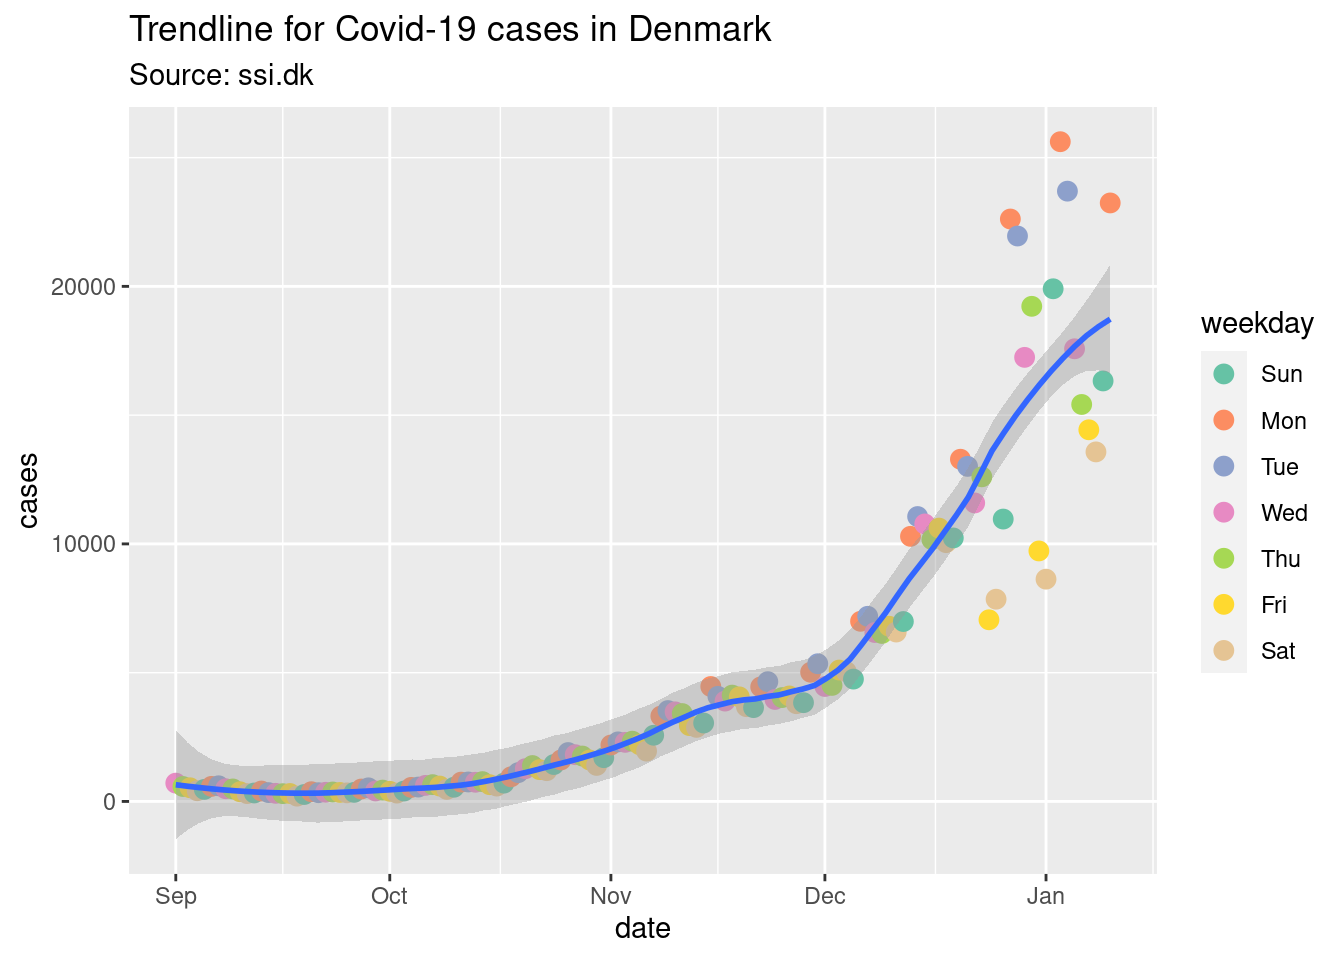
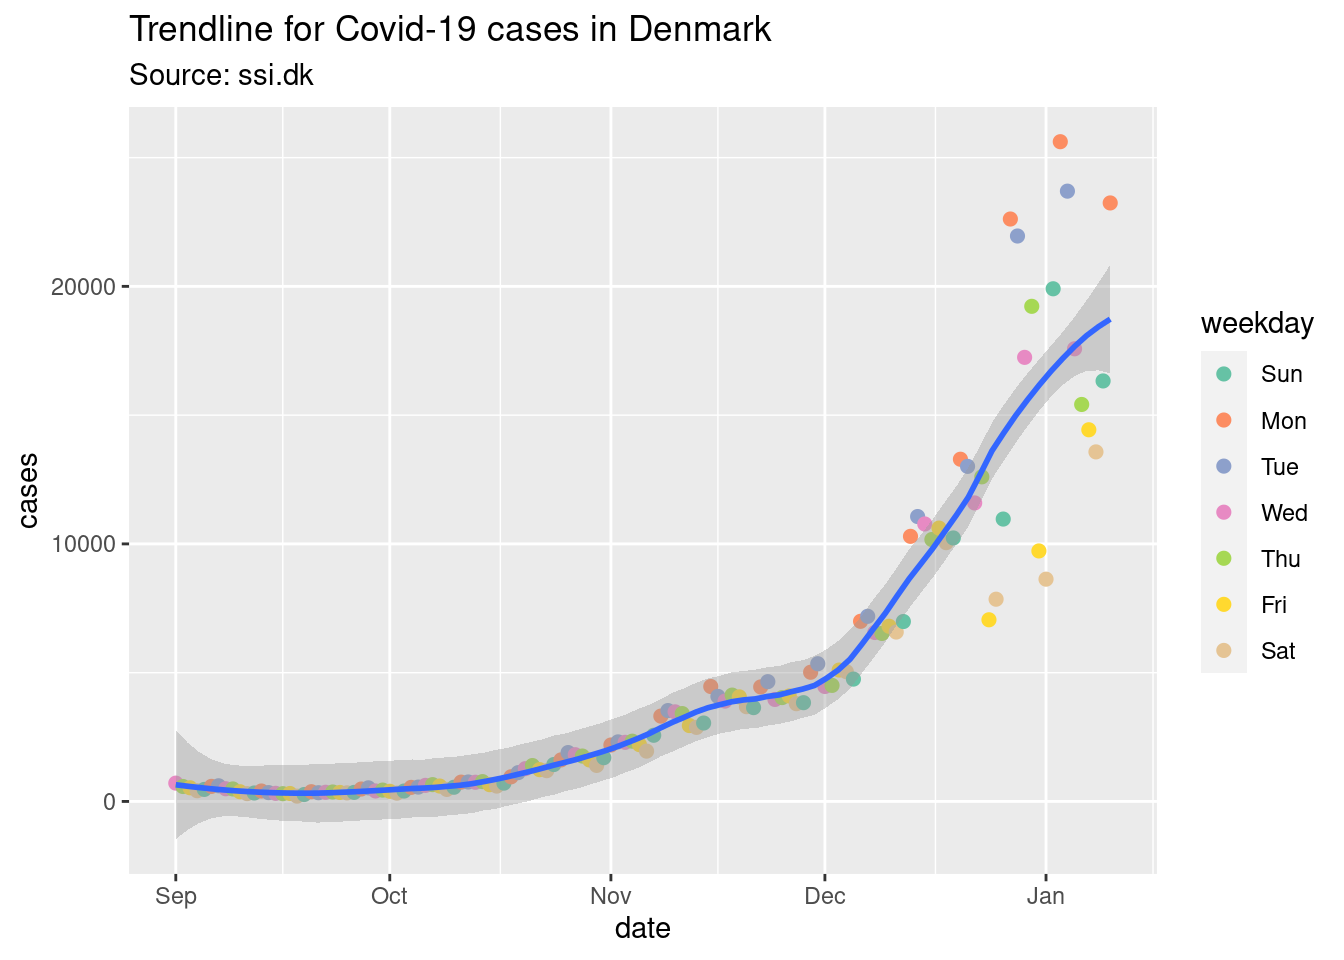
Make an anchor point for plots.

diff --git a/docs/index.html b/docs/index.html
@@ -464,9 +464,11 @@ country &lt;- country %&gt;% summarize(cases = sum(cases),
 <pre class="r"><code># Create a lag column for cases
 country &lt;- country %&gt;% mutate(previous_cases = lag(cases, order_by=date),
                               weekday = lubridate::wday(date, label=TRUE))</code></pre>
+<div id="cases-in-denmark-country-wide" class="section level4">
+<h4>Cases in Denmark, country-wide</h4>
 <p>At this point, we have readied our data, and can start plotting. First, lets plot the number of cases we have in Denmark, and supply a trend-line for the cases</p>
 <pre class="r"><code>plot_country &lt;- function(p, title, subtitle) {
-    p + geom_point(aes(color = weekday), size=3) +
+    p + geom_point(aes(color = weekday), size=2) +
         geom_smooth(method = &#39;loess&#39;, span = 0.3) +
         scale_colour_brewer(palette=&quot;Set2&quot;) +
         labs(title = title, subtitle = subtitle)
@@ -543,6 +545,7 @@ plot_age_cases(p, &quot;weekly_age_cases.png&quot;, &quot;Covid-19 cases per 100
 
 p &lt;- ggplot(weekly, aes(x=week, y=ageGroup, fill=tested_100k))
 plot_age_cases(p, &quot;weekly_age_tested.png&quot;, &quot;Covid-19 tests per 100k in Denmark, by age group&quot;, &quot;Source: ssi.dk&quot;)</code></pre>
+</div>
 </div>
 </div>
 
